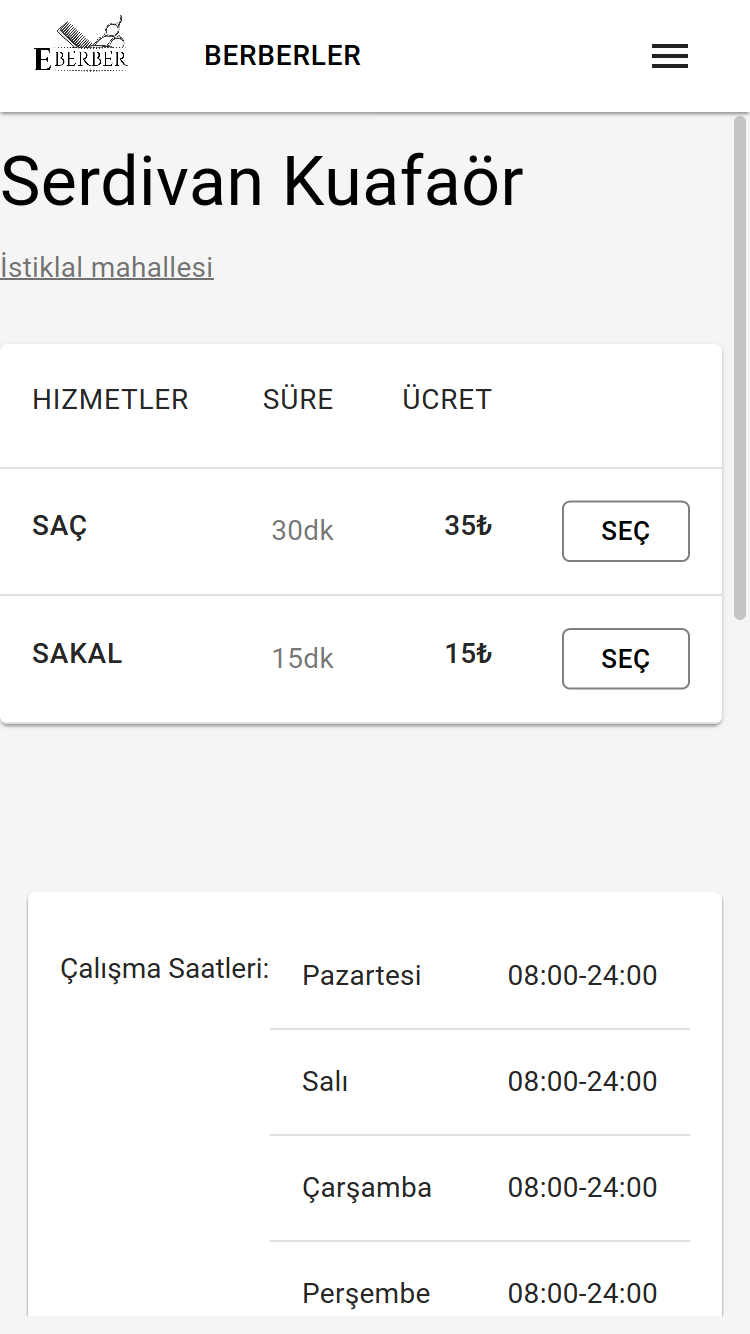
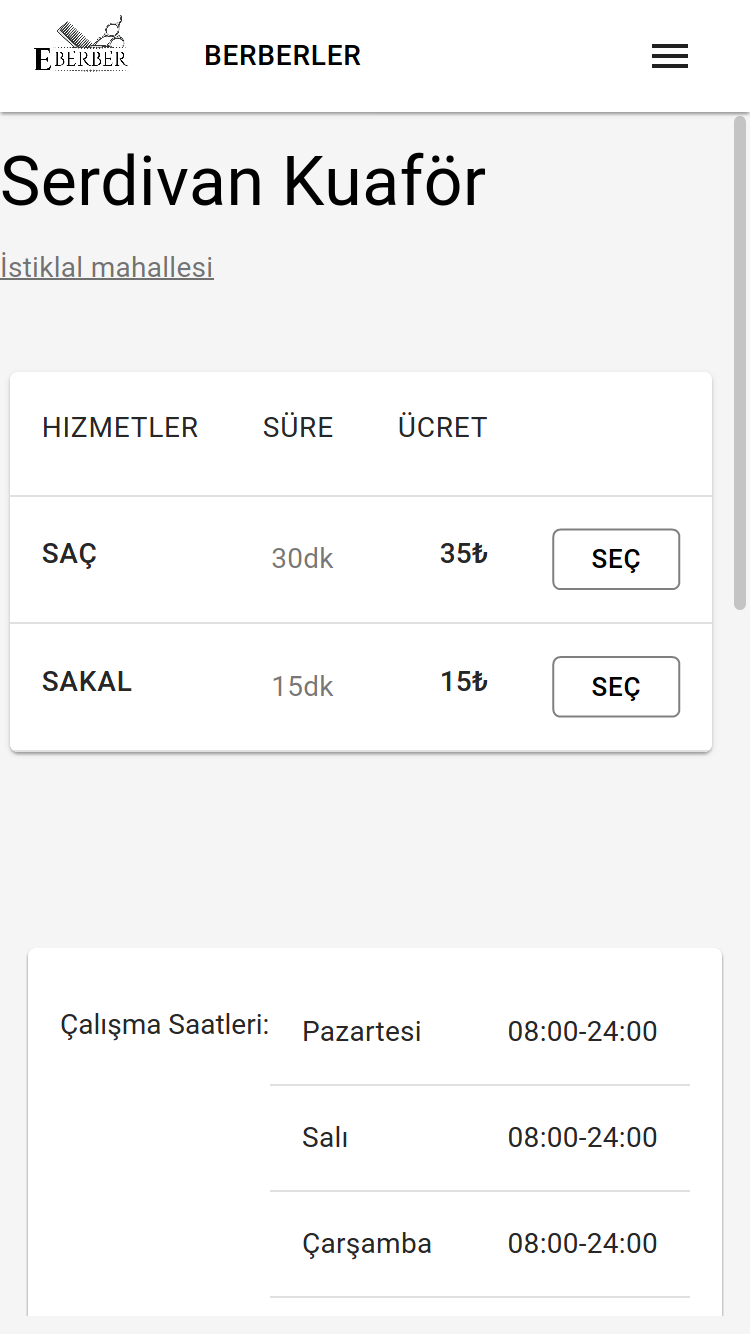
some changes for readme screenshots

diff --git a/src/Pages/Barbers/Barbers.js b/src/Pages/Barbers/Barbers.js
@@ -55,14 +55,14 @@ const Barbers = (props) => {
     const barbers = [
       {
         id: 1,
-        barberName: "Serdivan Kuafaör",
+        barberName: "Serdivan Kuaför",
         district: "İstiklal mahallesi",
         adress: "381.sokak 21/2 no:310",
         photo: kuafor,
       },
       {
         id: 2,
-        barberName: "Bayan kuaför",
+        barberName: "Bayan Kuaför",
         district: "Esentepe mahallesi",
         adress: "381.sokak 21/2 no:310",
         photo: kadınkuafor,

diff --git a/src/Pages/BarberDetail/BarberDetail.js b/src/Pages/BarberDetail/BarberDetail.js
@@ -265,7 +265,7 @@ const BarberDetail = () => {
 
     const barbers = {
       id: 1,
-      barberName: "Serdivan Kuafaör",
+      barberName: "Serdivan Kuaför",
       district: "Serdivan",
       adress: "İstiklal mahallesi",
     };

diff --git a/README.md b/README.md
@@ -4,14 +4,14 @@ _Made with MaterialUi_
 
 ## Screenshots
 
-<div align="left" style="margin-bottom:1em">
-    <img src="./src/screenshots/screenshot1.jpg" width="auto" height="200"/>
-    <img src="./src/screenshots/screenshot2.png" width="auto" height="200"/>
-    <img src="./src/screenshots/screenshot3.png" width="auto" height="200"/>
-    <img src="./src/screenshots/screenshot4.png" width="auto" height="200"/>
-    <img src="./src/screenshots/screenshot5.png" width="auto" height="200"/>
-    <img src="./src/screenshots/screenshot6.png" width="auto" height="200"/>
-    <img src="./src/screenshots/screenshot7.png" width="auto" height="200"/>
+<div align="left" >
+    <img src="./src/screenshots/screenshot1.jpg" width="auto" height="200" />
+    <img src="./src/screenshots/screenshot2.png" width="auto" height="200" />
+    <img src="./src/screenshots/screenshot3.png" width="auto" height="200" />
+    <img src="./src/screenshots/screenshot4.png" width="auto" height="200" />
+    <img src="./src/screenshots/screenshot5.png" width="auto" height="200" />
+    <img src="./src/screenshots/screenshot6.png" width="auto" height="200" />
+    <img src="./src/screenshots/screenshot7.png" width="auto" height="200" />
 </div>
 
 ## Installation :arrow_down:
